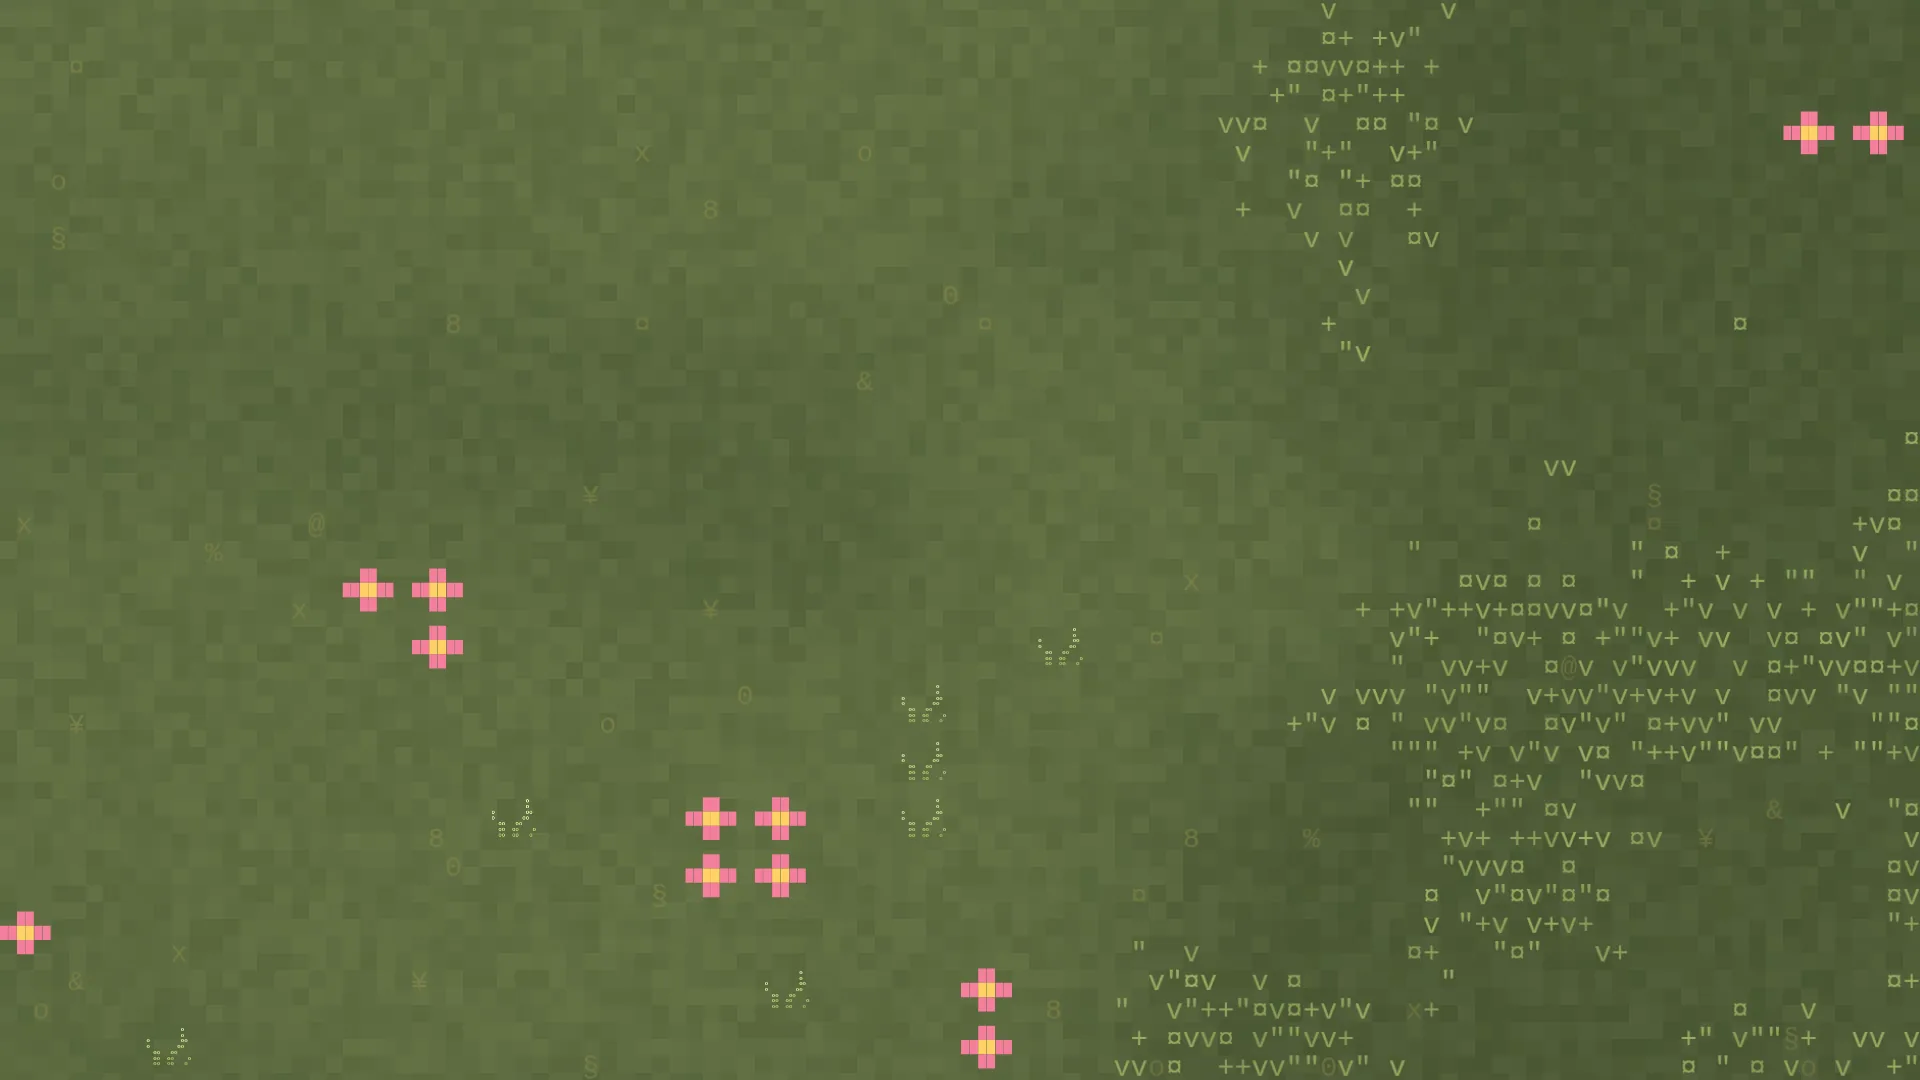
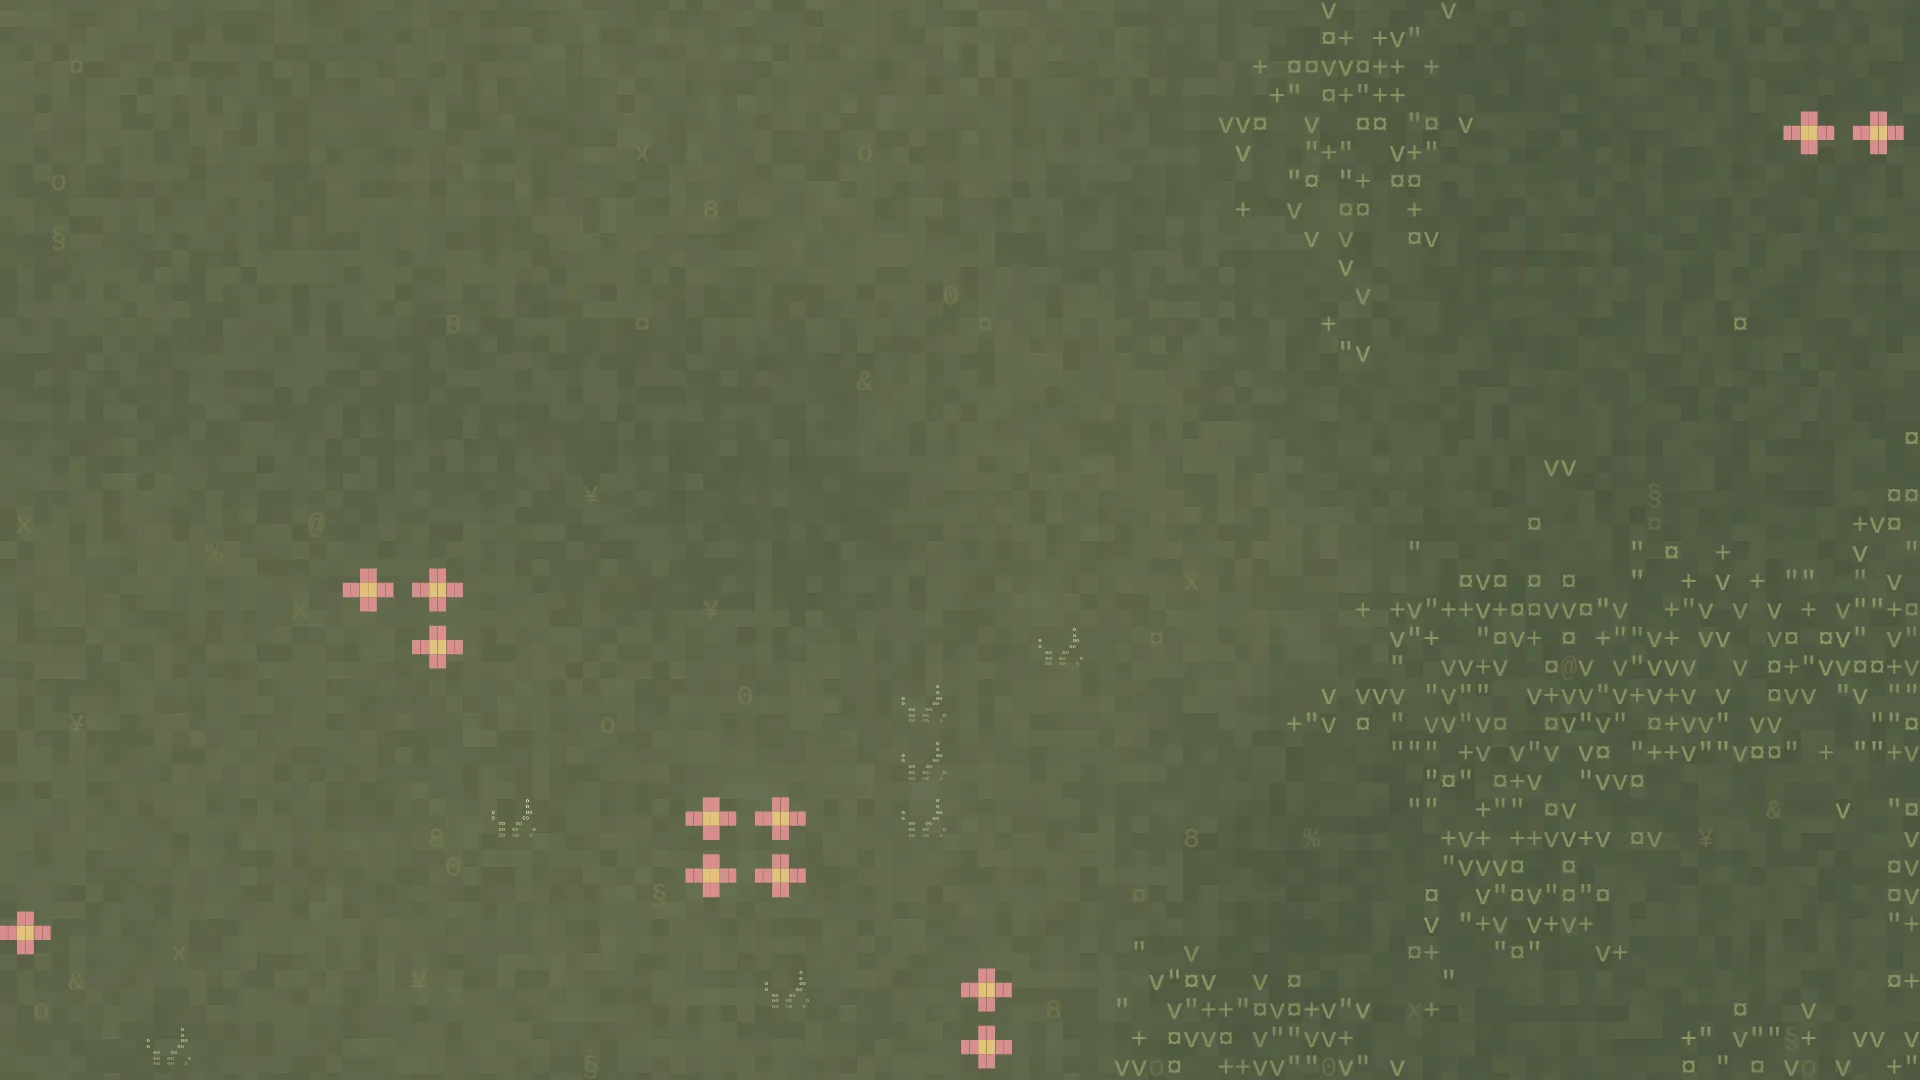
One muted scene palette for the world, after the art-direction reference

diff --git a/src/terrain.ts b/src/terrain.ts
@@ -79,34 +79,35 @@ type RGB = [number, number, number];
 const hex = (h: string): RGB => [parseInt(h.slice(1, 3), 16), parseInt(h.slice(3, 5), 16), parseInt(h.slice(5, 7), 16)];
 
 // ---- palette (all tunables in one place) ----------------------------------
-// Sampled from the reference close-up: dark olive ground, yellow-olive glyph
-// texture on the foliage, cream sand, teal-to-blue water with pale dot glyphs.
+// One muted, sun-washed scene palette (sampled from the art-direction
+// reference): grey-olive ground, mustard glyph texture on the foliage, warm
+// cream sand, desaturated teal water with cream dot glyphs.
 
 export const TERRAIN_PALETTE = {
-  grass: hex('#56643c'),
-  grassLight: hex('#617043'),
-  grassDark: hex('#4c5935'),
-  rimGrass: hex('#46542f'), // ground darkening toward the bushes
-  bushDark: hex('#2f3c24'),
-  bushMid: hex('#55663a'),
-  bushLight: hex('#5d6b39'),
-  foliageGlyph: hex('#c4b058'), // the yellow-olive x o * ¤ texture on bushes
-  foliageGlyphDark: hex('#8a8f44'),
-  fringeGlyph: hex('#dcc26c'), // yellow toward the sand edge of the rim
-  sandGlyph: hex('#c49a52'), // warm grain on the sand
-  sand: hex('#eac48c'),
-  sandOuter: hex('#efd8a8'),
-  wetSand: hex('#e9e0c0'),
-  shallow1: hex('#a7d2cb'),
-  shallow2: hex('#80bcc4'),
-  water: hex('#5e9cb5'),
-  deep: hex('#4886a4'),
-  deepest: hex('#3b7494'),
-  waterGlyph: hex('#dcefee'),
-  rock: hex('#8d9896'),
-  rockDark: hex('#6d7c7e'),
-  rockGlyph: hex('#dfe4dc'),
-  grassGlyph: hex('#a6ba68'), // light-green grass texture
+  grass: hex('#5a654a'),
+  grassLight: hex('#636b4c'),
+  grassDark: hex('#515a42'),
+  rimGrass: hex('#4c5440'), // ground darkening toward the bushes
+  bushDark: hex('#363e2c'),
+  bushMid: hex('#58613f'),
+  bushLight: hex('#626846'),
+  foliageGlyph: hex('#b8a663'), // the yellow-olive x o * ¤ texture on bushes
+  foliageGlyphDark: hex('#808150'),
+  fringeGlyph: hex('#cdb979'), // yellow toward the sand edge of the rim
+  sandGlyph: hex('#c09c62'), // warm grain on the sand
+  sand: hex('#ecca94'),
+  sandOuter: hex('#efd7a8'),
+  wetSand: hex('#d2d1b3'),
+  shallow1: hex('#a9b9a2'),
+  shallow2: hex('#80a39b'),
+  water: hex('#64939a'),
+  deep: hex('#578691'),
+  deepest: hex('#4d7a87'),
+  waterGlyph: hex('#d6e2d6'),
+  rock: hex('#8e948a'),
+  rockDark: hex('#6e7770'),
+  rockGlyph: hex('#dcddcf'),
+  grassGlyph: hex('#9aa36a'), // light-green grass texture
   stone: hex('#8e8f80'),
   stoneLight: hex('#b3b3a2'),
 };

diff --git a/src/sprites.ts b/src/sprites.ts
@@ -405,8 +405,8 @@ export const FLOWER_PLUS_COLORS = [
   '..aa..',
 ];
 export const FLOWER_PLUS_PALETTE: Record<string, string> = {
-  a: '#F47F9D', // petals, pink
-  b: '#FFD166', // centre '@', yellow
+  a: '#D88E8E', // petals, dusty pink
+  b: '#E2C27A', // centre '@', soft gold
 };
 
 // ---------------------------------------------------------------------------
@@ -434,16 +434,16 @@ export const GRASS_HALM_COLORS = [
   '.....rs..tu...v..',
 ];
 
-// Light, slightly yellow greens from the ground's own grass-glyph family
-// (terrain.ts grassGlyph #a6ba68), tips brightest, so the tufts stand out
-// on the olive ground instead of fading into it.
+// Light olive-creams from the ground's own grass-glyph family (terrain.ts
+// grassGlyph), tips brightest, so the tufts stand out on the olive ground
+// instead of fading into it.
 export const GRASS_HALM_PALETTE: Record<string, string> = {
-  a: '#f0f8b4', b: '#e6f2a2', c: '#f0f8b4', d: '#e6f2a2',
-  e: '#dbeb92', f: '#e6f2a2', g: '#dbeb92', h: '#cfe182',
-  i: '#dbeb92', j: '#cfe182', k: '#cfe182', l: '#c3d874',
-  m: '#cfe182', n: '#c3d874', o: '#c3d874', p: '#b6cd66',
-  q: '#c3d874', r: '#b6cd66', s: '#b6cd66', t: '#a9c25a',
-  u: '#b6cd66', v: '#a9c25a',
+  a: '#d8d6a9', b: '#cfcf9d', c: '#d8d6a9', d: '#cfcf9d',
+  e: '#c4c592', f: '#cfcf9d', g: '#c4c592', h: '#b8ba85',
+  i: '#c4c592', j: '#b8ba85', k: '#b8ba85', l: '#adb07b',
+  m: '#b8ba85', n: '#adb07b', o: '#adb07b', p: '#a1a56f',
+  q: '#adb07b', r: '#a1a56f', s: '#a1a56f', t: '#959a65',
+  u: '#a1a56f', v: '#959a65',
 };
 
 // ---------------------------------------------------------------------------

diff --git a/src/TerrainCanvas.tsx b/src/TerrainCanvas.tsx
@@ -294,7 +294,7 @@ export default function TerrainCanvas(props: Props) {
       ctx.textAlign = 'center';
       ctx.textBaseline = 'middle';
       if ((x1 - x0) * (y1 - y0) <= MAX_CAUSTIC_CELLS) {
-        ctx.fillStyle = '#e8f7f1';
+        ctx.fillStyle = '#e3e6d6';
         forEachCaustic(s.tick, x0, y0, x1, y1, (x, y, tier, g) => {
           ctx.globalAlpha = CAUSTIC_ALPHA[tier];
           ctx.fillText(g, (x + 0.5) * charW, (y + 0.5) * lineH);
@@ -308,7 +308,7 @@ export default function TerrainCanvas(props: Props) {
           ctx.fillText(y % 2 ? ',' : '.', (x + 0.5) * charW, (y + 0.5) * lineH);
         } else {
           ctx.globalAlpha = a;
-          ctx.fillStyle = '#eef4ea';
+          ctx.fillStyle = '#ebe6d2';
           ctx.fillText(g, (x + 0.5) * charW, (y + 0.5) * lineH);
         }
       });

diff --git a/src/styles.css b/src/styles.css
@@ -3347,7 +3347,7 @@ pre {
   border: 1px solid var(--ds-line);
   border-radius: var(--ds-radius-sm);
   overflow: hidden;
-  background: #142530;
+  background: #45707c;
 }
 
 .game-map-world {
